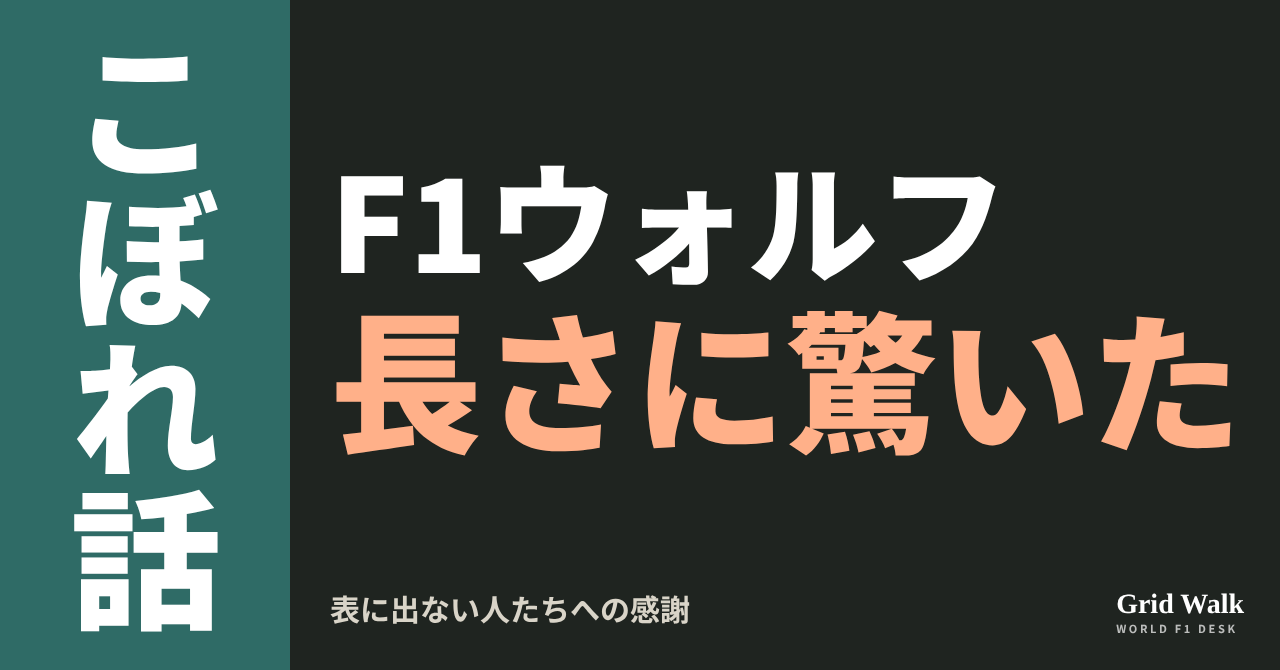
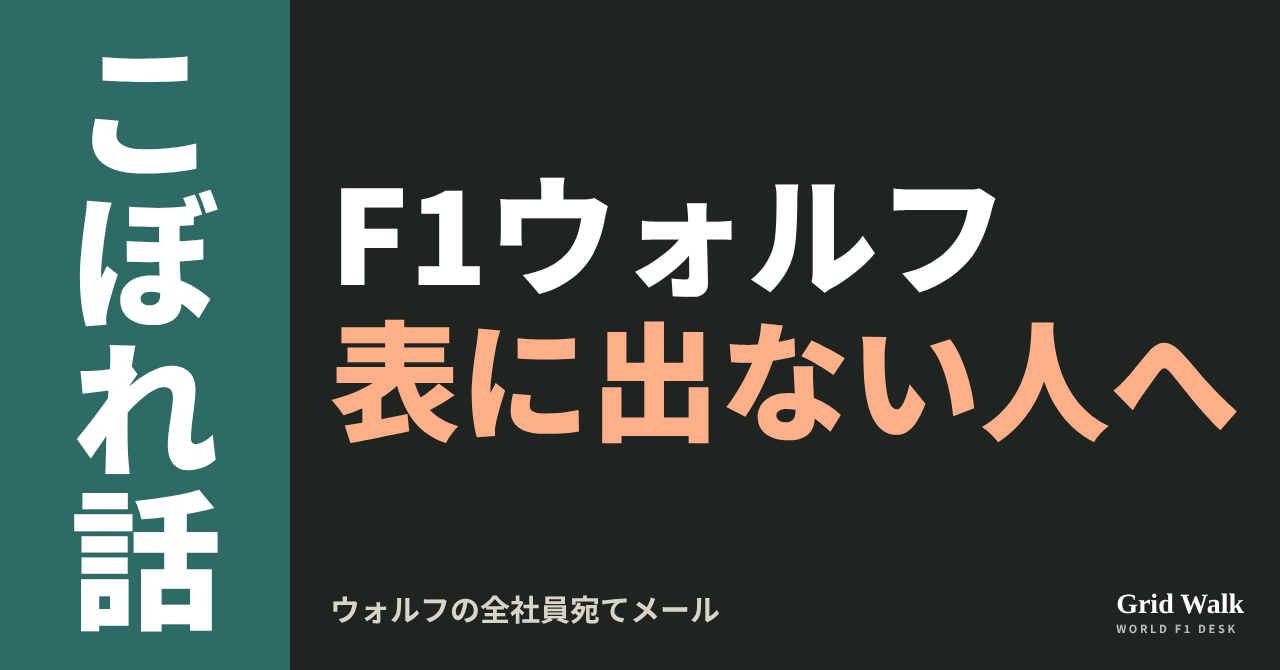
desk: 11/10の画像候補W3を差し替え
Claude-Session: https://claude.ai/code/session_01LGMvzb8B3aK7DkzCCi7qDe

diff --git a/desk/pending/1110/W3.html b/desk/pending/1110/W3.html
@@ -11,7 +11,7 @@ em{font-style:normal;color:#FFB089}
 .br{position:absolute;right:36px;bottom:34px;font:700 28px Georgia,serif}.br small{display:block;font:700 11px 'Noto Sans CJK JP';letter-spacing:.24em;opacity:.7}
 .row{display:flex;align-items:center;gap:28px;white-space:nowrap;font-weight:900}
 .row svg{flex:0 0 auto}
-</style><div class=c><div class=p><b>こぼれ話</b></div><div class=r><div class=l1>F1ウォルフ</div><div class=l2><em>長さに驚いた</em></div></div><div class=s>表に出ない人たちへの感謝</div><div class=br>Grid Walk<small>WORLD F1 DESK</small></div></div>
+</style><div class=c><div class=p><b>こぼれ話</b></div><div class=r><div class=l1>F1ウォルフ</div><div class=l2><em>表に出ない人へ</em></div></div><div class=s>ウォルフの全社員宛てメール</div><div class=br>Grid Walk<small>WORLD F1 DESK</small></div></div>
 <script>
 document.querySelectorAll('.l1,.l2,.l3,.s,.row').forEach(el=>{let f=parseFloat(getComputedStyle(el).fontSize);while(el.scrollWidth>el.clientWidth+1&&f>20){f-=2;el.style.fontSize=f+'px'}});
 const r=document.querySelector('.r');let n=0;while(r.scrollHeight>r.clientHeight+1&&n++<80){document.querySelectorAll('.l1,.l2,.l3,.row').forEach(el=>{el.style.fontSize=(parseFloat(getComputedStyle(el).fontSize)-3)+'px'})}
